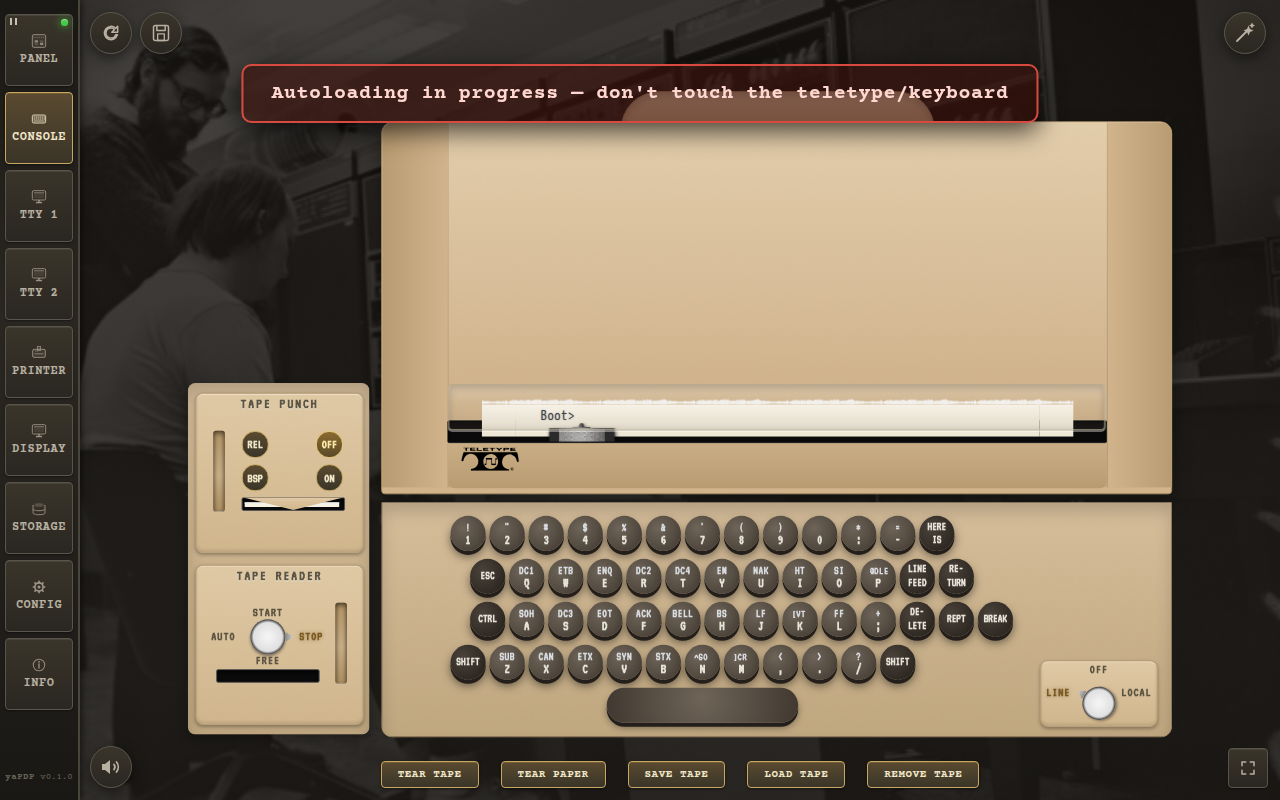
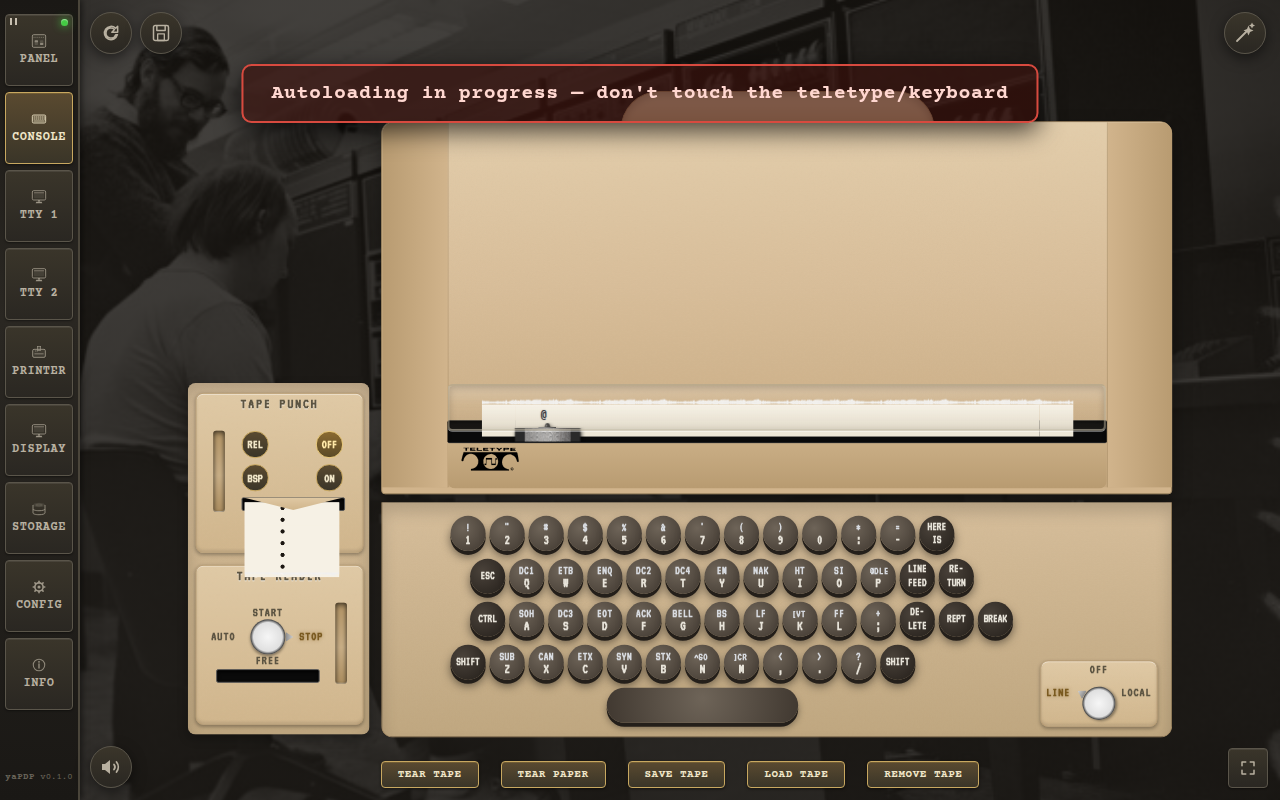
fix: write manual screenshots to both repo-root and landing sets; regenerate with quiet @ boot prompt

Changed region(s): [[0.1875, 0.625, 0.2812, 0.7188], [0.4062, 0.5, 0.5, 0.5625]]

diff --git a/tools/screenshots-manual.js b/tools/screenshots-manual.js
@@ -17,7 +17,11 @@
  *                                               # name without the .png suffix)
  *   npm run screenshots:manual
  *
- * Output: assets/images/manual/<name>.png
+ * Output: assets/images/manual/<name>.png (the repo-root copy, which is the
+ * canonical one) and landing/public/assets/images/manual/<name>.png (the React
+ * landing mirror). The emulator manual page and the landing's User Manual
+ * section must show identical illustrations, so every shot is written to both
+ * tracked locations to keep them from drifting apart.
  */
 "use strict";
 
@@ -28,7 +32,25 @@ const { spawn } = require("child_process");
 const puppeteer = require("puppeteer-core");
 
 const ROOT = path.resolve(__dirname, "..");
-const OUT_DIR = path.join(ROOT, "assets", "images", "manual");
+// Each generated shot is written to every tracked manual-images directory so
+// the docs and the React landing can never drift apart. Order: canonical
+// repo-root copy first, then the landing mirror.
+const OUT_DIRS = [
+    path.join(ROOT, "assets", "images", "manual"),
+    path.join(ROOT, "landing", "public", "assets", "images", "manual")
+];
+
+// Write one PNG into every OUT_DIR under the given file name, making the
+// parent directory on demand. Returns the canonical (first) path so callers
+// can report/stat a single representative file.
+function writeShot(fileName, buf) {
+    const canonical = path.join(OUT_DIRS[0], fileName);
+    for (const dir of OUT_DIRS) {
+        fs.mkdirSync(dir, { recursive: true });
+        fs.writeFileSync(path.join(dir, fileName), buf);
+    }
+    return canonical;
+}
 const PORT = 11790;
 const BASE = `http://127.0.0.1:${PORT}`;
 const VIEWPORT = { width: 1280, height: 800 };
@@ -278,8 +300,7 @@ async function captureScenario(browser, cfg, shots, label) {
             await page.evaluate((p) => window.switchPage(p), shot.page);
             if (shot.prep) await shot.prep(page);
             await sleep(shot.wait);
-            const file = path.join(OUT_DIR, shot.file);
-            const opts = { path: file, type: "png" };
+            const opts = { type: "png" };
             // `clip: true` crops to the page's own content column: from the
             // first child (the page heading) down to the .config-actions bar,
             // at the page block's width — the sidebar and the empty backdrop
@@ -305,7 +326,8 @@ async function captureScenario(browser, cfg, shots, label) {
                 });
                 if (clip) opts.clip = clip;
             }
-            await page.screenshot(opts);
+            const png = await page.screenshot(opts);
+            const file = writeShot(shot.file, png);
             const kb = Math.round(fs.statSync(file).size / 1024);
             console.log(`  saved ${shot.file} (${kb} kB)`);
         } catch (err) {
@@ -345,7 +367,8 @@ async function captureButtons(browser, wants) {
                 console.log(`  MISSING ${b.file} (${b.id})`);
                 continue;
             }
-            await el.screenshot({ path: path.join(OUT_DIR, b.file) });
+            const png = await el.screenshot();
+            writeShot(b.file, png);
             console.log(`  saved ${b.file}`);
         } catch (err) {
             console.error(`  FAILED ${b.file}: ${err.message}`);
@@ -395,7 +418,8 @@ async function captureDialogs(browser, wants) {
     async function snap(page, file, wait) {
         try {
             await sleep(wait || 600);
-            await page.screenshot({ path: path.join(OUT_DIR, file), type: "png" });
+            const png = await page.screenshot({ type: "png" });
+            writeShot(file, png);
             console.log(`  saved ${file}`);
         } catch (err) {
             console.error(`  FAILED ${file}: ${err.message}`);
@@ -565,8 +589,8 @@ async function captureVt11Lander(browser) {
     try {
         await page.evaluate(() => window.switchPage("vt11"));
         await sleep(1500);
-        const file = path.join(OUT_DIR, "vt11.png");
-        await page.screenshot({ path: file, type: "png" });
+        const png = await page.screenshot({ type: "png" });
+        const file = writeShot("vt11.png", png);
         console.log(`  saved vt11.png (${Math.round(fs.statSync(file).size / 1024)} kB)`);
     } catch (err) {
         console.error(`  FAILED vt11.png: ${err.message}`);
@@ -589,7 +613,9 @@ async function captureVt11Lander(browser) {
                 name.toLowerCase().replace(/\.png$/, "") === selector;
         }
 
-        fs.mkdirSync(OUT_DIR, { recursive: true });
+        // Ensure every output directory exists up front (writeShot also
+        // mkdirs lazily, so this is just insurance/consistency).
+        for (const dir of OUT_DIRS) fs.mkdirSync(dir, { recursive: true });
         server = await ensureServer();
         browser = await launchBrowser();
 
@@ -615,7 +641,7 @@ async function captureVt11Lander(browser) {
         }
 
         console.log("\nDone. Screenshots written to " +
-            path.relative(ROOT, OUT_DIR) + ".");
+            OUT_DIRS.map((d) => path.relative(ROOT, d)).join(" and ") + ".");
     } catch (err) {
         console.error(err.message);
         process.exitCode = 1;

diff --git a/CHANGELOG.md b/CHANGELOG.md
@@ -18,6 +18,16 @@ and this project adheres to [Semantic Versioning](https://semver.org/spec/v2.0.0
   unknown guest image (whose prompts are not known yet) headlessly and then
   derive the readiness markers from the captured boot output.
   (`tools/headless-machine.js`, test 4 in `tests/headless-machine.test.js`)
+
+### Fixed
+
+- **Manual screenshots written to both repo-root and landing sets.**
+  `tools/screenshots-manual.js` previously wrote every shot only to
+  `assets/images/manual/`, letting the React landing's mirror
+  (`landing/public/assets/images/manual/`) drift out of date. Each generated
+  PNG is now written to both tracked locations, and all manual illustrations
+  were regenerated from current `master` — they now show the machine's real
+  quiet `@` bootstrap prompt instead of the stale `Boot>` banner.
 - Nothing yet — see [docs/ROADMAP.md](docs/ROADMAP.md).
 
 ## [0.1.0] - 2026-09-04
